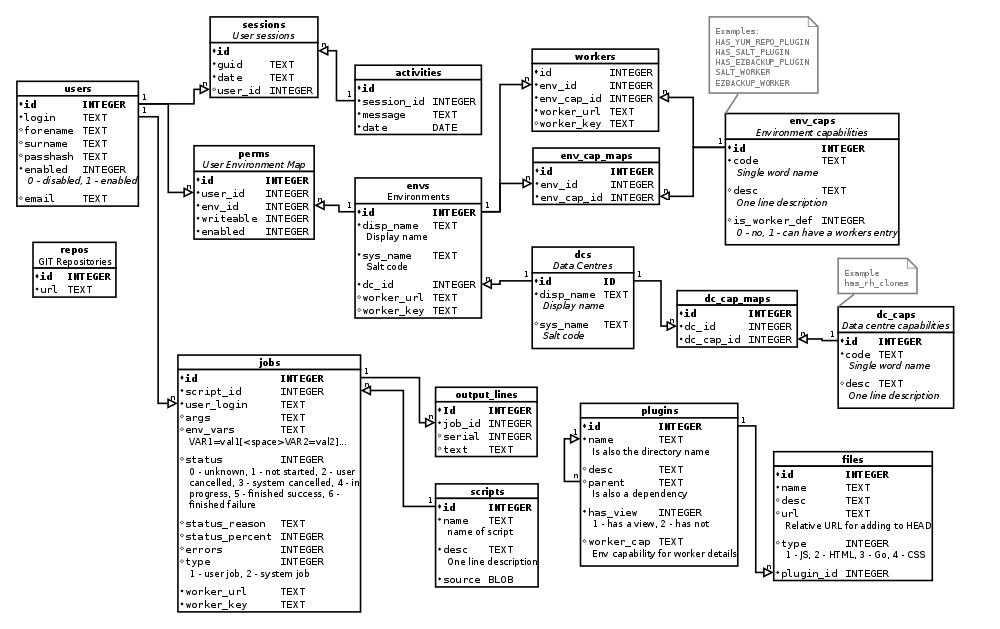
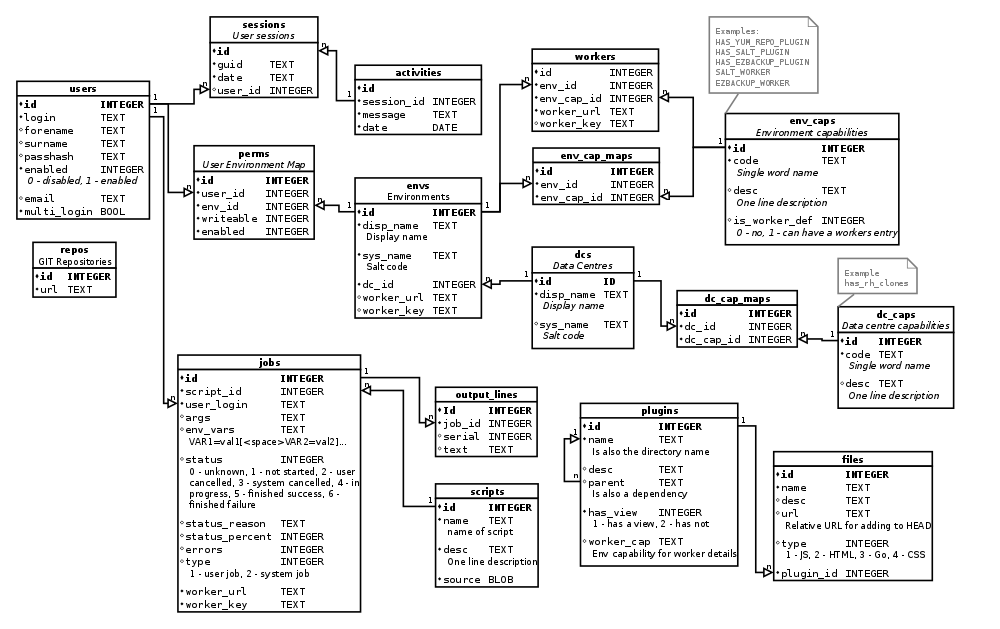
multi-login

Changed region(s): [[0.0, 0.1208, 0.186, 0.6343], [0.062, 0.1208, 0.093, 0.151]]

diff --git a/obdi/login.go b/obdi/login.go
@@ -67,7 +67,7 @@ func (api *Api) DoLogin(w rest.ResponseWriter, r *rest.Request) {
 	}
 
 	// The user's password matches.
-	// Delete old session(s) and create a new one.
+	// Delete old session(s) (if not MultiLogin) and create a new one
 
 	guid := NewGUID()
 	session := Session{}
@@ -92,10 +92,12 @@ func (api *Api) DoLogin(w rest.ResponseWriter, r *rest.Request) {
 
 		} else {
 
-			if err := api.db.Delete(&session).Error; err != nil {
-				rest.Error(w, err.Error(), 400)
-				mutex.Unlock()
-				return
+			if !user.MultiLogin {
+				if err := api.db.Delete(&session).Error; err != nil {
+					rest.Error(w, err.Error(), 400)
+					mutex.Unlock()
+					return
+				}
 			}
 		}
 		mutex.Unlock()

diff --git a/obdi/db.go b/obdi/db.go
@@ -26,16 +26,17 @@ import (
 
 // Maps to the users table
 type User struct {
-	Id        int64
-	Login     string `sql:"not null"`
-	Forename  string
-	Surname   string
-	Passhash  string
-	Enabled   bool
-	CreatedAt time.Time
-	UpdatedAt time.Time
-	DeletedAt time.Time
-	Email     string
+	Id         int64
+	Login      string `sql:"not null"`
+	Forename   string
+	Surname    string
+	Passhash   string
+	Enabled    bool
+	CreatedAt  time.Time
+	UpdatedAt  time.Time
+	DeletedAt  time.Time
+	Email      string
+	MultiLogin bool
 
 	//Session     Session
 	//SessionId   sql.NullInt64

diff --git a/obdi/users.go b/obdi/users.go
@@ -90,6 +90,7 @@ func (api *Api) GetAllUsers(w rest.ResponseWriter, r *rest.Request) {
 		u[i]["Enabled"] = users[i].Enabled
 		u[i]["CreatedAt"] = users[i].CreatedAt
 		u[i]["Email"] = users[i].Email
+		u[i]["MultiLogin"] = users[i].MultiLogin
 	}
 
 	// Too much noise
